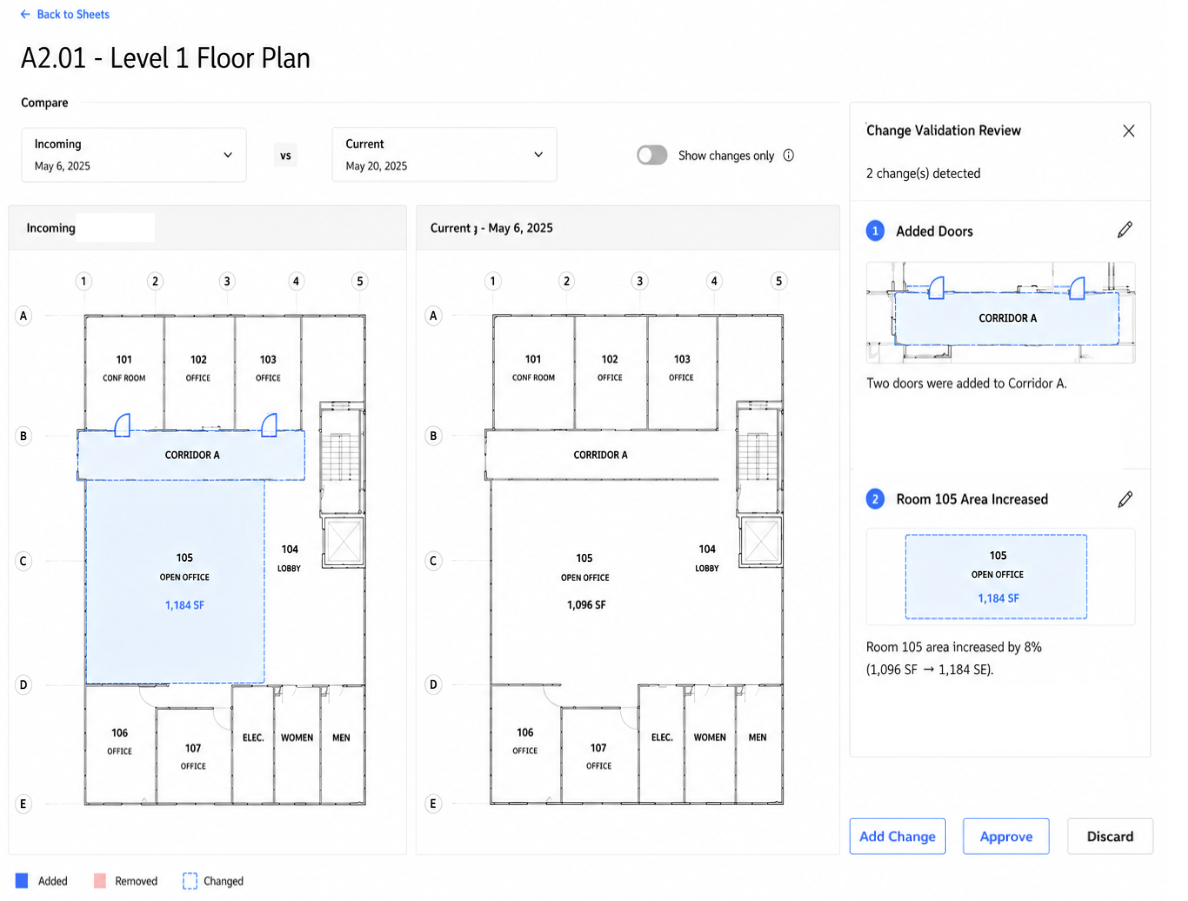
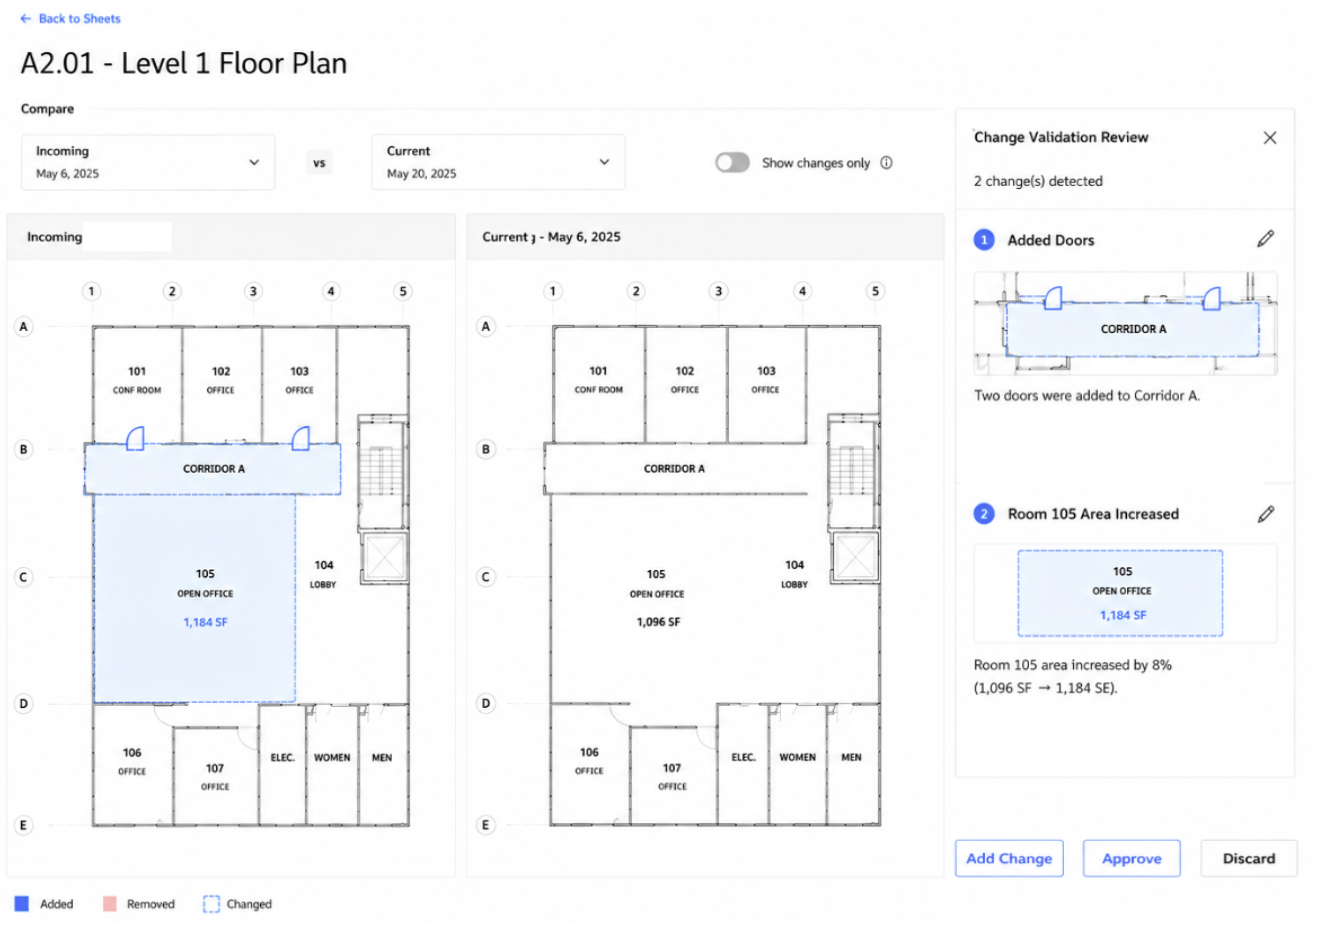
feat(HA-DrawingAnalyzer): opportunity images per use case
- Add an image to each use case's Opportunity section
- Portrait images render beside the text (label moves into the text column,
  no border); landscape images render below the text with a thick blue border
  matching the highlighted workflow boxes
- Add use-case-2 (portrait) and use-case-3 (landscape) images; update use-case-1
- Remove the redundant "Example:" quote from UC2 (now shown in the image)

diff --git a/app/HA-DrawingAnalyzer/sections/UseCase.tsx b/app/HA-DrawingAnalyzer/sections/UseCase.tsx
@@ -63,7 +63,8 @@ export interface UseCaseData {
     intro?:    string   // optional lead-in paragraph (often ends with a colon)
     quotes?:   string[] // optional example quotes (rendered as blockquotes)
     outro?:    string   // optional paragraph after the quotes
-    image?:    string   // optional image shown to the left of the text
+    image?:    string   // optional image shown with the text
+    imageAside?: boolean // portrait images: render beside the text instead of below
   }
 
   value:     TitledItem[]
@@ -72,12 +73,18 @@ export interface UseCaseData {
 
 /* ─── generic helpers ─────────────────────────────────────────────────────── */
 
+function BlockLabel({ children }: { children: ReactNode }) {
+  return (
+    <p className="font-sans text-[10px] font-bold uppercase tracking-[0.14em] text-charcoal mb-3">
+      {children}
+    </p>
+  )
+}
+
 function Block({ label, children }: { label: string; children: ReactNode }) {
   return (
     <div className="mb-9">
-      <p className="font-sans text-[10px] font-bold uppercase tracking-[0.14em] text-charcoal mb-3">
-        {label}
-      </p>
+      <BlockLabel>{label}</BlockLabel>
       {children}
     </div>
   )
@@ -102,6 +109,35 @@ function Bullets({ items }: { items: string[] }) {
 
 function MiniLabel({ children }: { children: ReactNode }) {
   return <p className="font-sans text-[11px] text-charcoal/60 mt-4 mb-1.5">{children}</p>
+}
+
+function OpportunityText({ opp }: { opp: UseCaseData['opportunity'] }) {
+  return (
+    <>
+      <Para>{opp.statement}</Para>
+      {opp.intro && <div className="mt-3"><Para>{opp.intro}</Para></div>}
+      {opp.quotes && opp.quotes.length > 0 && (
+        <div className="flex flex-col gap-2 mt-3">
+          {opp.quotes.map((q, i) => (
+            <blockquote
+              key={i}
+              className="border-l-2 border-autodesk-blue pl-3 py-0.5 font-sans italic text-[14px] leading-relaxed text-charcoal"
+            >
+              “{q}”
+            </blockquote>
+          ))}
+        </div>
+      )}
+      {opp.outro && <div className="mt-3"><Para>{opp.outro}</Para></div>}
+    </>
+  )
+}
+
+function OpportunityImage({ src, bordered = true }: { src: string; bordered?: boolean }) {
+  return (
+    // eslint-disable-next-line @next/next/no-img-element
+    <img src={src} alt="" className={`w-full h-auto rounded-lg ${bordered ? 'border-2 border-autodesk-blue/70' : ''}`} />
+  )
 }
 
 // Filled yellow warning triangle with a white exclamation — marks the primary
@@ -413,33 +449,29 @@ export default function UseCase({ data }: { data: UseCaseData }) {
         <Bullets items={data.problem.consequences} />
       </Block>
 
-      <Block label="The AI Drawing Analyzer Opportunity">
-        <div>
-          <Para>{data.opportunity.statement}</Para>
-          {data.opportunity.intro && <div className="mt-3"><Para>{data.opportunity.intro}</Para></div>}
-          {data.opportunity.quotes && data.opportunity.quotes.length > 0 && (
-            <div className="flex flex-col gap-2 mt-3">
-              {data.opportunity.quotes.map((q, i) => (
-                <blockquote
-                  key={i}
-                  className="border-l-2 border-autodesk-blue pl-3 py-0.5 font-sans italic text-[14px] leading-relaxed text-charcoal"
-                >
-                  “{q}”
-                </blockquote>
-              ))}
+      <div className="mb-9">
+        {data.opportunity.image && data.opportunity.imageAside ? (
+          // portrait image: to the left of the text, no border; label sits above the text
+          <div className="grid md:grid-cols-[280px_1fr] gap-5 md:gap-8 items-start">
+            <OpportunityImage src={data.opportunity.image} bordered={false} />
+            <div>
+              <BlockLabel>The AI Drawing Analyzer Opportunity</BlockLabel>
+              <OpportunityText opp={data.opportunity} />
             </div>
-          )}
-          {data.opportunity.outro && <div className="mt-3"><Para>{data.opportunity.outro}</Para></div>}
-          {data.opportunity.image && (
-            // eslint-disable-next-line @next/next/no-img-element
-            <img
-              src={data.opportunity.image}
-              alt=""
-              className="w-full rounded-lg border-2 border-autodesk-blue/60 mt-5"
-            />
-          )}
-        </div>
-      </Block>
+          </div>
+        ) : (
+          // landscape (or no image): label on top, image below the text, full width
+          <>
+            <BlockLabel>The AI Drawing Analyzer Opportunity</BlockLabel>
+            <OpportunityText opp={data.opportunity} />
+            {data.opportunity.image && (
+              <div className="mt-5">
+                <OpportunityImage src={data.opportunity.image} />
+              </div>
+            )}
+          </>
+        )}
+      </div>
 
       <Block label="Workflow">
         <WorkflowComparison current={data.currentWorkflow} proposed={data.proposedWorkflow} />

diff --git a/app/HA-DrawingAnalyzer/sections/useCaseData.ts b/app/HA-DrawingAnalyzer/sections/useCaseData.ts
@@ -176,10 +176,9 @@ export const USE_CASE_2: UseCaseData = {
 
   opportunity: {
     image: '/drawinganalyzer/use-case-2.png',
+    imageAside: true,
     statement:
       'Transform free-form issue descriptions into context-rich project records by automatically connecting RFIs to the relevant drawings, objects, schedules, specifications, and locations.',
-    intro: 'Example:',
-    quotes: ['Window in Conference Room A on Level 3 doesn’t match spec.'],
     outro: 'This enables project context to be inferred from the issue description rather than manually reconstructed throughout the RFI lifecycle. It also creates a reusable context-linking capability that can later support RFIs, observations, punch items, and issue management workflows.',
   },
 